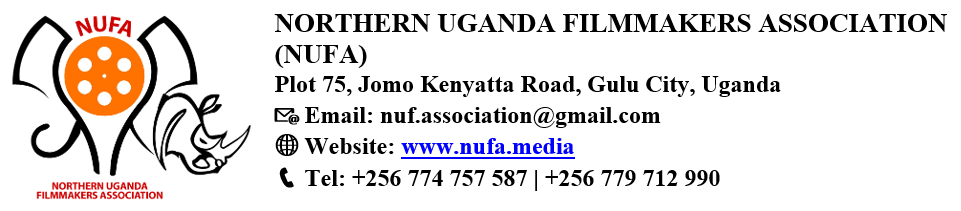
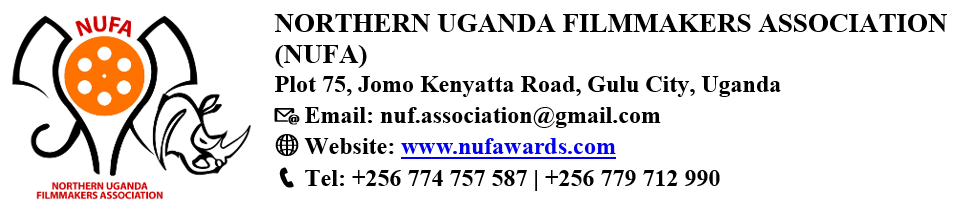
Website is www.nufawards.com: updated site details, sitemap, sender address default, saved content (one-time) and the headed-paper letterhead

Changed region(s): [[0.4058, 0.654, 0.6556, 0.7678]]

diff --git a/includes/renewals.php b/includes/renewals.php
@@ -82,3 +82,17 @@ function mem_renew_approve($conn, $rid, $note = '') {
     $a = $conn->prepare("UPDATE member_renewals SET status='approved', new_valid_until=?, approved_at=NOW(), admin_note=? WHERE id=?"); $n = mb_substr($note, 0, 500); $a->bind_param("ssi", $until, $n, $rid); $a->execute();
     return $until;
 }
+
+/** One-time: the website is www.nufawards.com — replace any saved www.nufa.media / @nufa.media in settings, page text, menus and stories. */
+function mem_domain_seed($conn) {
+    static $done = false; if ($done) return; $done = true;
+    $f = $conn->query("SELECT 1 FROM settings WHERE setting_key='domain_nufawards_v1'");
+    if (!$f || $f->num_rows) return;
+    $targets = [['settings', 'setting_value'], ['page_content', 'field_value'], ['nav_items', 'url'], ['posts', 'content'], ['posts', 'excerpt'], ['programmes', 'summary'], ['resources', 'description']];
+    foreach ($targets as [$t, $c]) {
+        $x = $conn->query("SHOW COLUMNS FROM `$t` LIKE '$c'"); if (!$x || !$x->num_rows) continue;
+        $conn->query("UPDATE `$t` SET `$c`=REPLACE(REPLACE(`$c`,'www.nufa.media','www.nufawards.com'),'nufa.media','nufawards.com') WHERE `$c` LIKE '%nufa.media%'");
+    }
+    $conn->query("INSERT INTO settings (setting_key, setting_value) VALUES ('domain_nufawards_v1','1') ON DUPLICATE KEY UPDATE setting_value='1'");
+    mem_settings($conn, true);
+}

diff --git a/includes/membership.php b/includes/membership.php
@@ -28,7 +28,7 @@ function mem_defaults() {
         'president_title'      => 'President, NUFA',
         'president_signature'  => '',
         'card_note'            => 'This card remains the property of NUFA. Valid only for the period shown.',
-        'email_from'           => 'info@nufa.media',
+        'email_from'           => 'info@nufawards.com',
         'email_from_name'      => 'NUFA',
         'admin_notify_email'   => 'nuf.association@gmail.com',
         'send_receipt_email'   => '1',
@@ -266,7 +266,7 @@ function mem_email_html($subject, $text, $buttonUrl = null, $buttonLabel = 'View
 /** Sends (and logs) an e-mail. Returns true when handed to the mail system. */
 function mem_send($conn, $memberId, $kind, $to, $subject, $text, $buttonUrl = null, $replyTo = '') {
     $s = mem_settings($conn);
-    $from = $s['email_from'] ?: 'info@nufa.media';
+    $from = $s['email_from'] ?: 'info@nufawards.com';
     $fromName = $s['email_from_name'] ?: 'NUFA';
     $boundary = 'nufa_' . bin2hex(random_bytes(8));
     $html = mem_email_html($subject, $text, $buttonUrl);
@@ -332,4 +332,5 @@ mem_install($conn);
 mem_subregion_col($conn);
 require_once __DIR__ . "/renewals.php";
 mem_fees_seed($conn);
+mem_domain_seed($conn);
 mem_renew_install($conn);

diff --git a/includes/letters.php b/includes/letters.php
@@ -161,7 +161,7 @@ function ltr_email_html($conn, array $l) {
 /** Sends the letter by email (headed-paper HTML + plain-text copy). Returns true if handed to the mail system. */
 function ltr_send_email($conn, array $l) {
     if (!filter_var($l['email'], FILTER_VALIDATE_EMAIL)) return false;
-    $M = mem_settings($conn); $from = $M['email_from'] ?: 'info@nufa.media'; $fromName = $M['email_from_name'] ?: 'NUFA';
+    $M = mem_settings($conn); $from = $M['email_from'] ?: 'info@nufawards.com'; $fromName = $M['email_from_name'] ?: 'NUFA';
     $subject = 'Invitation: ' . $l['event_title'] . ($l['event_date'] ? ' — ' . date('j F Y', strtotime($l['event_date'])) : '');
     $text = $l['body'] . "\n\nView and download the letter: " . ltr_link($l) . "\n\n— Northern Uganda Filmmakers Association";
     $html = ltr_email_html($conn, $l); $b = 'nufa_' . bin2hex(random_bytes(8));

diff --git a/includes/newsletter.php b/includes/newsletter.php
@@ -112,7 +112,7 @@ function nl_email_text($conn, $n, $sub) {
 /** Sends one issue to one address (HTML + plain text) and logs it. */
 function nl_mail($conn, $to, $subject, $html, $text) {
     $s = mem_settings($conn);
-    $from = $s['email_from'] ?: 'info@nufa.media'; $fromName = $s['email_from_name'] ?: 'NUFA';
+    $from = $s['email_from'] ?: 'info@nufawards.com'; $fromName = $s['email_from_name'] ?: 'NUFA';
     $b = 'nufa_' . bin2hex(random_bytes(8));
     $headers = "From: " . mb_encode_mimeheader($fromName) . " <{$from}>\r\nReply-To: {$from}\r\nMIME-Version: 1.0\r\nContent-Type: multipart/alternative; boundary=\"{$b}\"\r\nList-Unsubscribe: <" . mem_site_url() . "/newsletters.php>\r\n";
     $msg = "--{$b}\r\nContent-Type: text/plain; charset=UTF-8\r\n\r\n{$text}\r\n\r\n--{$b}\r\nContent-Type: text/html; charset=UTF-8\r\n\r\n{$html}\r\n\r\n--{$b}--";

diff --git a/includes/invitations.php b/includes/invitations.php
@@ -112,7 +112,7 @@ function inv_email_text($camp, $g) {
 /** Sends the invitation email (with the PDF attached) and logs it. Returns [ok, note]. */
 function inv_mail($conn, $camp, $g, $toOverride = null) {
     $s = mem_settings($conn);
-    $from = $s['email_from'] ?: 'info@nufa.media'; $fromName = $s['email_from_name'] ?: 'NUFA';
+    $from = $s['email_from'] ?: 'info@nufawards.com'; $fromName = $s['email_from_name'] ?: 'NUFA';
     $to = $toOverride ?: $g['email'];
     $subject = strtr($camp['subject'] !== '' ? $camp['subject'] : 'You are invited: {event}', inv_vars($camp, $g));
     [$pdf, $note] = inv_pdf($camp, $g);

diff --git a/includes/settings.php b/includes/settings.php
@@ -14,7 +14,7 @@ function nufa_site_settings($conn) {
         'site_phone'    => '+256 774 757 587',
         'site_phone2'   => '+256 779 712 990',
         'site_address'  => 'Plot 75, Jomo Kenyatta Road, Gulu City, Uganda',
-        'site_website'  => 'https://www.nufa.media/',
+        'site_website'  => 'https://www.nufawards.com/',
         'facebook_url'  => 'https://www.facebook.com/nufa2026',
         'instagram_url' => 'https://www.instagram.com/nufa2026',
         'x_url'         => 'https://x.com/NUFA_OFFICIAL1',

diff --git a/admin/reply.php b/admin/reply.php
@@ -13,7 +13,7 @@ if ($_SERVER['REQUEST_METHOD'] === 'POST') {
     $subject = trim($_POST['subject'] ?? '');
     $body = trim($_POST['body'] ?? '');
     if ($subject && $body) {
-        $fromEmail = 'info@nufa.media';
+        $fromEmail = 'info@nufawards.com';
         $headers  = "From: NUFA <{$fromEmail}>\r\n";
         $headers .= "Reply-To: {$fromEmail}\r\n";
         $headers .= "Content-Type: text/plain; charset=UTF-8\r\n";

diff --git a/docs/CONTENT-HANDOVER.md b/docs/CONTENT-HANDOVER.md
@@ -25,7 +25,7 @@ Privacy Policy, Cookie Policy, Terms of Use, Image & Content Permissions, Access
 6. **News articles** — the ten articles imported from the earlier site are the association's own posts; please confirm each is accurate and approved. Mark any demonstration content as unpublished.
 7. **Impact figures** — none are shown. Add verified indicators in *Site Settings → Verified impact figures* when available.
 8. **Resources and videos** — the library is empty by design. Upload approved documents (Resources) and official YouTube/Vimeo links (Gallery & Videos).
-9. **Contact details** — set from the brief: Plot 75, Jomo Kenyatta Road, Gulu City · nuf.association@gmail.com · +256 774 757 587 / +256 779 712 990 · https://www.nufa.media/. A map is intentionally **not** shown until the exact office location is verified.
+9. **Contact details** — set from the brief: Plot 75, Jomo Kenyatta Road, Gulu City · nuf.association@gmail.com · +256 774 757 587 / +256 779 712 990 · https://www.nufawards.com/. A map is intentionally **not** shown until the exact office location is verified.
 10. **Photographs** — the images used come from NUFA's own galleries and productions. Please confirm publication permission for people shown, and add photographer credits (News → image credit; Gallery note).
 11. **Membership payment details** — real mobile-money/bank details, fee, validity period, president's name and signature (Membership → Membership settings).
 12. **Sending e-mail address** — an address on the hosting domain (Membership settings → Emails) for reliable delivery.
